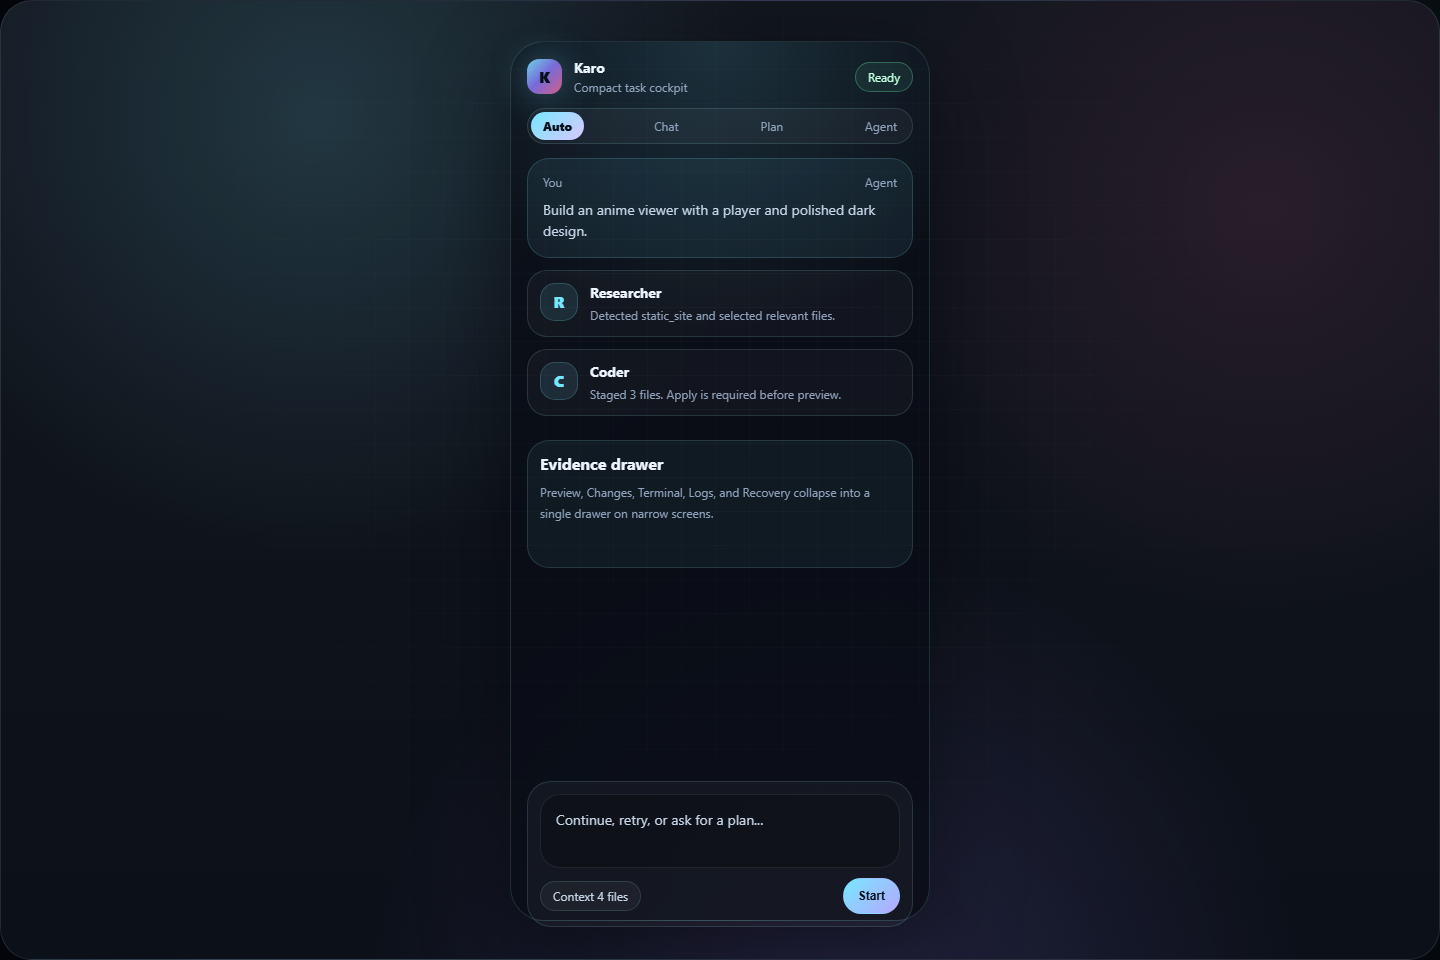
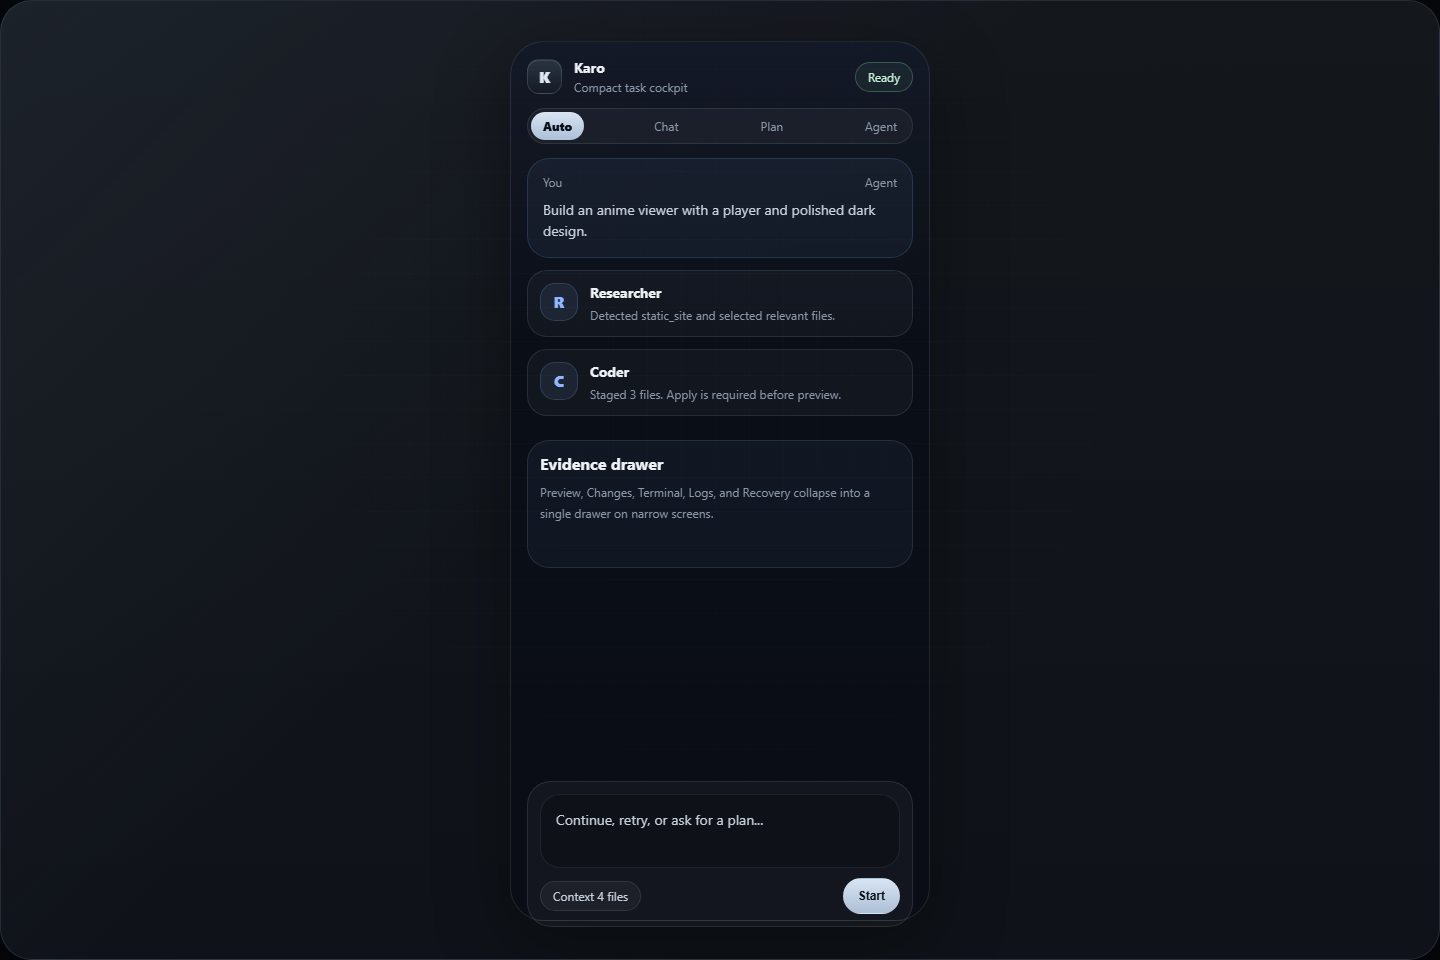
docs: restrain native ide mockup palette

Changed region(s): [[0.1875, 0.0625, 0.2812, 0.2188], [0.5312, 0.9062, 0.7188, 1.0], [0.3438, 0.0625, 0.4062, 0.1562]]

diff --git a/docs/design/karo-native-ai-ide-v3/mockup.html b/docs/design/karo-native-ai-ide-v3/mockup.html
@@ -7,22 +7,22 @@
   <style>
     :root {
       color-scheme: dark;
-      --ink-0: #05070d;
-      --ink-1: #090d16;
-      --ink-2: #101827;
-      --ink-3: #17243a;
-      --line: rgba(168, 245, 255, 0.14);
-      --line-strong: rgba(168, 245, 255, 0.28);
-      --text: #edf5ff;
-      --soft: #c5d4e6;
-      --muted: #8fa2bb;
-      --dim: #5f7088;
-      --cyan: #77e7ff;
-      --violet: #8f7bff;
-      --rose: #ff6f9e;
-      --jade: #66e3a8;
-      --amber: #ffd36b;
-      --shadow: 0 28px 90px rgba(0, 0, 0, 0.44);
+      --ink-0: #07090d;
+      --ink-1: #0d1117;
+      --ink-2: #121821;
+      --ink-3: #171f2b;
+      --line: rgba(198, 211, 224, 0.12);
+      --line-strong: rgba(158, 180, 205, 0.26);
+      --text: #eef2f6;
+      --soft: #c7d0dc;
+      --muted: #8c98a8;
+      --dim: #657181;
+      --cyan: #8fb7ff;
+      --violet: #a8b2c2;
+      --rose: #d77a86;
+      --jade: #7fc99b;
+      --amber: #d8b66d;
+      --shadow: 0 24px 72px rgba(0, 0, 0, 0.38);
       --font: Inter, ui-sans-serif, system-ui, -apple-system, BlinkMacSystemFont, "Segoe UI", sans-serif;
       font-family: var(--font);
     }
@@ -35,10 +35,7 @@
       margin: 0;
       min-width: 1460px;
       background:
-        radial-gradient(circle at 8% 4%, rgba(119, 231, 255, 0.20), transparent 28%),
-        radial-gradient(circle at 82% 6%, rgba(143, 123, 255, 0.16), transparent 30%),
-        radial-gradient(circle at 68% 82%, rgba(102, 227, 168, 0.10), transparent 28%),
-        var(--ink-0);
+        linear-gradient(180deg, #0d1117 0%, #07090d 72%, #05070a 100%);
       color: var(--text);
       padding: 36px;
     }
@@ -73,10 +70,8 @@
       border: 1px solid rgba(180, 220, 255, 0.13);
       border-radius: 32px;
       background:
-        linear-gradient(180deg, rgba(255, 255, 255, 0.035), rgba(255, 255, 255, 0.012)),
-        radial-gradient(circle at 22% 12%, rgba(119, 231, 255, 0.16), transparent 32%),
-        radial-gradient(circle at 88% 22%, rgba(255, 111, 158, 0.10), transparent 28%),
-        radial-gradient(circle at 58% 106%, rgba(143, 123, 255, 0.18), transparent 36%),
+        linear-gradient(180deg, rgba(255, 255, 255, 0.026), rgba(255, 255, 255, 0.008)),
+        linear-gradient(135deg, rgba(72, 88, 108, 0.16), transparent 44%),
         var(--ink-1);
       box-shadow: var(--shadow);
     }
@@ -87,8 +82,8 @@
       inset: 0;
       pointer-events: none;
       background:
-        linear-gradient(rgba(255, 255, 255, 0.026) 1px, transparent 1px),
-        linear-gradient(90deg, rgba(255, 255, 255, 0.018) 1px, transparent 1px);
+        linear-gradient(rgba(255, 255, 255, 0.018) 1px, transparent 1px),
+        linear-gradient(90deg, rgba(255, 255, 255, 0.012) 1px, transparent 1px);
       background-size: 34px 34px;
       mask-image: radial-gradient(circle at 50% 40%, black, transparent 82%);
     }
@@ -105,10 +100,10 @@
     .glass {
       border: 1px solid var(--line);
       background:
-        linear-gradient(180deg, rgba(255, 255, 255, 0.072), rgba(255, 255, 255, 0.028)),
-        rgba(9, 13, 22, 0.72);
-      box-shadow: inset 0 1px 0 rgba(255, 255, 255, 0.09), 0 18px 60px rgba(0, 0, 0, 0.24);
-      backdrop-filter: blur(24px);
+        linear-gradient(180deg, rgba(255, 255, 255, 0.052), rgba(255, 255, 255, 0.018)),
+        rgba(13, 17, 23, 0.86);
+      box-shadow: inset 0 1px 0 rgba(255, 255, 255, 0.065), 0 18px 52px rgba(0, 0, 0, 0.26);
+      backdrop-filter: blur(18px);
     }
 
     .topbar {
@@ -133,10 +128,11 @@
       display: grid;
       place-items: center;
       background:
-        linear-gradient(135deg, rgba(119, 231, 255, 0.9), rgba(143, 123, 255, 0.82) 48%, rgba(255, 111, 158, 0.8));
-      color: #06101a;
+        linear-gradient(180deg, #2a3442, #151b24);
+      border: 1px solid rgba(198, 211, 224, 0.16);
+      color: #dbe6f2;
       font-weight: 900;
-      box-shadow: 0 0 36px rgba(119, 231, 255, 0.35);
+      box-shadow: inset 0 1px 0 rgba(255, 255, 255, 0.08);
     }
 
     .brand-title {
@@ -184,21 +180,21 @@
     }
 
     .chip.good {
-      border-color: rgba(102, 227, 168, 0.34);
-      color: #c3ffdf;
-      background: rgba(102, 227, 168, 0.09);
+      border-color: rgba(127, 201, 155, 0.32);
+      color: #c5efd5;
+      background: rgba(127, 201, 155, 0.075);
     }
 
     .chip.warn {
-      border-color: rgba(255, 211, 107, 0.34);
-      color: #ffe6a6;
-      background: rgba(255, 211, 107, 0.08);
+      border-color: rgba(216, 182, 109, 0.32);
+      color: #ead6a5;
+      background: rgba(216, 182, 109, 0.075);
     }
 
     .chip.bad {
-      border-color: rgba(255, 111, 158, 0.34);
-      color: #ffc0d0;
-      background: rgba(255, 111, 158, 0.08);
+      border-color: rgba(215, 122, 134, 0.32);
+      color: #ebb5bd;
+      background: rgba(215, 122, 134, 0.075);
     }
 
     .rail {
@@ -232,9 +228,9 @@
 
     .rail-btn.active {
       color: var(--text);
-      border-color: rgba(119, 231, 255, 0.36);
-      background: rgba(119, 231, 255, 0.10);
-      box-shadow: 0 0 28px rgba(119, 231, 255, 0.16);
+      border-color: rgba(143, 183, 255, 0.30);
+      background: rgba(143, 183, 255, 0.085);
+      box-shadow: none;
     }
 
     .rail-spacer {
@@ -263,12 +259,12 @@
       height: 44px;
       width: 100%;
       border-radius: 16px;
-      border: 1px solid rgba(119, 231, 255, 0.32);
-      color: #051019;
-      background: linear-gradient(135deg, var(--cyan), #a996ff);
+      border: 1px solid rgba(143, 183, 255, 0.28);
+      color: #eaf1fb;
+      background: linear-gradient(180deg, rgba(143, 183, 255, 0.22), rgba(143, 183, 255, 0.10));
       font-size: 13px;
       font-weight: 800;
-      box-shadow: 0 14px 40px rgba(119, 231, 255, 0.16);
+      box-shadow: inset 0 1px 0 rgba(255, 255, 255, 0.07);
     }
 
     .nav-list {
@@ -290,7 +286,7 @@
     .nav-item.active,
     .run-item.active {
       border-color: var(--line-strong);
-      background: rgba(119, 231, 255, 0.085);
+      background: rgba(143, 183, 255, 0.075);
       color: var(--text);
     }
 
@@ -352,8 +348,8 @@
 
     .message.user {
       margin-left: 86px;
-      background: rgba(119, 231, 255, 0.075);
-      border-color: rgba(119, 231, 255, 0.18);
+      background: rgba(143, 183, 255, 0.060);
+      border-color: rgba(143, 183, 255, 0.16);
     }
 
     .message.assistant {
@@ -451,8 +447,8 @@
     }
 
     .segmented .active {
-      color: #07111c;
-      background: linear-gradient(135deg, var(--cyan), #d7c8ff);
+      color: #08101a;
+      background: linear-gradient(180deg, #d8e4f2, #adc0d7);
       font-weight: 800;
     }
 
@@ -463,9 +459,9 @@
     }
 
     .btn.primary {
-      color: #06101a;
+      color: #08101a;
       border-color: transparent;
-      background: linear-gradient(135deg, var(--cyan), #b6a7ff);
+      background: linear-gradient(180deg, #d8e4f2, #adc0d7);
     }
 
     .panel {
@@ -494,8 +490,8 @@
 
     .tab.active {
       color: var(--text);
-      border-color: rgba(119, 231, 255, 0.36);
-      background: rgba(119, 231, 255, 0.10);
+      border-color: rgba(143, 183, 255, 0.30);
+      background: rgba(143, 183, 255, 0.075);
     }
 
     .evidence {
@@ -517,10 +513,8 @@
       overflow: hidden;
       border: 1px solid rgba(255, 255, 255, 0.10);
       background:
-        linear-gradient(135deg, rgba(5, 7, 13, 0.2), rgba(5, 7, 13, 0.82)),
-        radial-gradient(circle at 82% 20%, rgba(255, 111, 158, 0.38), transparent 34%),
-        radial-gradient(circle at 16% 24%, rgba(119, 231, 255, 0.25), transparent 30%),
-        linear-gradient(135deg, #10142a, #1d0f26 50%, #08131f);
+        linear-gradient(135deg, rgba(8, 10, 14, 0.16), rgba(8, 10, 14, 0.78)),
+        linear-gradient(135deg, #222735, #151b25 48%, #0e141d);
       padding: 18px;
       position: relative;
     }
@@ -558,8 +552,8 @@
       width: 38px;
       height: 38px;
       border-radius: 50%;
-      background: var(--cyan);
-      color: #051019;
+      background: #d8e4f2;
+      color: #08101a;
       display: grid;
       place-items: center;
       font-weight: 900;
@@ -577,7 +571,7 @@
       display: block;
       width: 44%;
       height: 100%;
-      background: linear-gradient(90deg, var(--cyan), var(--rose));
+      background: linear-gradient(90deg, #d8e4f2, #8fb7ff);
     }
 
     .activity {
@@ -603,8 +597,8 @@
       border-radius: 15px;
       display: grid;
       place-items: center;
-      background: rgba(119, 231, 255, 0.11);
-      border: 1px solid rgba(119, 231, 255, 0.2);
+      background: rgba(143, 183, 255, 0.085);
+      border: 1px solid rgba(143, 183, 255, 0.18);
       color: var(--cyan);
       font-weight: 900;
     }
@@ -636,27 +630,27 @@
     }
 
     .status.done {
-      color: #c3ffdf;
-      border-color: rgba(102, 227, 168, 0.34);
-      background: rgba(102, 227, 168, 0.08);
+      color: #c5efd5;
+      border-color: rgba(127, 201, 155, 0.32);
+      background: rgba(127, 201, 155, 0.075);
     }
 
     .status.run {
-      color: #d6f8ff;
-      border-color: rgba(119, 231, 255, 0.38);
-      background: rgba(119, 231, 255, 0.10);
+      color: #d7e6fb;
+      border-color: rgba(143, 183, 255, 0.32);
+      background: rgba(143, 183, 255, 0.075);
     }
 
     .status.warn {
-      color: #ffe6a6;
-      border-color: rgba(255, 211, 107, 0.34);
-      background: rgba(255, 211, 107, 0.08);
+      color: #ead6a5;
+      border-color: rgba(216, 182, 109, 0.32);
+      background: rgba(216, 182, 109, 0.075);
     }
 
     .status.fail {
-      color: #ffc0d0;
-      border-color: rgba(255, 111, 158, 0.38);
-      background: rgba(255, 111, 158, 0.08);
+      color: #ebb5bd;
+      border-color: rgba(215, 122, 134, 0.32);
+      background: rgba(215, 122, 134, 0.075);
     }
 
     .artifact-row {
@@ -759,9 +753,9 @@
     }
 
     .recovery-card {
-      border-color: rgba(255, 211, 107, 0.34);
+      border-color: rgba(216, 182, 109, 0.30);
       background:
-        linear-gradient(180deg, rgba(255, 211, 107, 0.10), rgba(255, 255, 255, 0.03));
+        linear-gradient(180deg, rgba(216, 182, 109, 0.075), rgba(255, 255, 255, 0.025));
     }
 
     .recovery-card h2 {
@@ -783,7 +777,7 @@
       border-radius: 34px;
       border: 1px solid var(--line);
       background:
-        radial-gradient(circle at 50% 0%, rgba(119, 231, 255, 0.16), transparent 32%),
+        linear-gradient(180deg, rgba(143, 183, 255, 0.065), transparent 34%),
         rgba(9, 13, 22, 0.86);
       padding: 16px;
       box-shadow: var(--shadow);
@@ -816,7 +810,7 @@
       margin-top: 12px;
       border-radius: 22px;
       border: 1px solid var(--line);
-      background: rgba(119, 231, 255, 0.06);
+      background: rgba(143, 183, 255, 0.055);
       padding: 12px;
     }
 

diff --git a/docs/design/karo-native-ai-ide-v3/README.md b/docs/design/karo-native-ai-ide-v3/README.md
@@ -51,22 +51,21 @@ flowchart LR
 
 ## Visual Language
 
-Karo should use a restrained dark/liquid system, not a one-note purple gradient.
+Karo should feel like a serious native IDE with a restrained graphite surface system. The target is premium and calm, not "AI neon" and not a colorful marketing dashboard.
 
 Core tokens:
 
-- `ink-0` `#05070d`: app background.
-- `ink-1` `#090d16`: shell background.
-- `ink-2` `#101827`: panel base.
-- `ink-3` `#17243a`: raised card.
-- `line` `rgba(168, 245, 255, 0.14)`: glass border.
-- `text` `#edf5ff`: primary text.
-- `muted` `#93a4bb`: supporting text.
-- `cyan` `#77e7ff`: active state and preview.
-- `violet` `#8f7bff`: AI/run identity.
-- `rose` `#ff6f9e`: destructive/error accents.
-- `jade` `#66e3a8`: success/validated.
-- `amber` `#ffd36b`: warning/recovery.
+- `ink-0` `#07090d`: app background.
+- `ink-1` `#0d1117`: shell background.
+- `ink-2` `#121821`: panel base.
+- `ink-3` `#171f2b`: raised card.
+- `line` `rgba(198, 211, 224, 0.12)`: panel border.
+- `text` `#eef2f6`: primary text.
+- `muted` `#8c98a8`: supporting text.
+- `steel` `#8fb7ff`: selected state and primary action.
+- `jade` `#7fc99b`: success/validated.
+- `amber` `#d8b66d`: warning/recovery.
+- `red` `#d77a86`: failure/destructive.
 
 Type:
 
@@ -77,10 +76,11 @@ Type:
 
 Surface rules:
 
-- Panels use low-alpha glass, 1px borders, soft inner highlights, and directional shadows.
-- Interactive controls have one clear selected state.
+- Panels use matte graphite surfaces, 1px borders, small inner highlights, and restrained shadows.
+- Interactive controls have one clear selected state, usually border + subtle fill rather than saturated color.
 - Important safety states use content and iconography, not color alone.
 - Empty states answer: what this panel shows, why it is empty, what unlocks it.
+- Gradients are allowed only as subtle depth, not as decoration. Avoid multi-color glow backgrounds.
 
 ## Mockups
 
